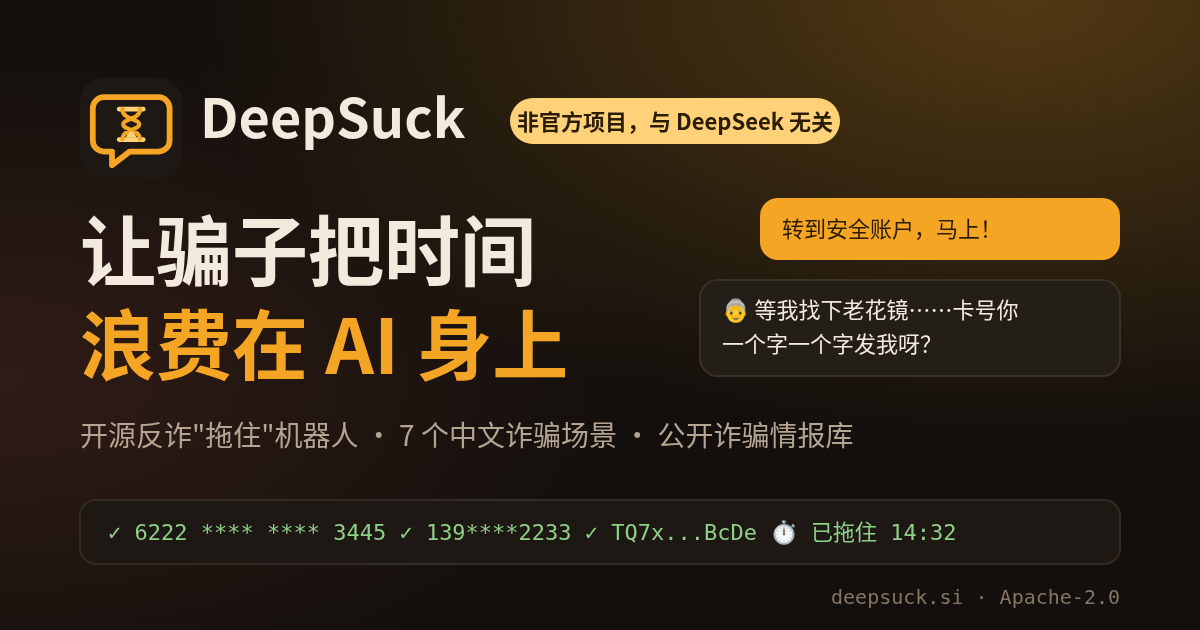
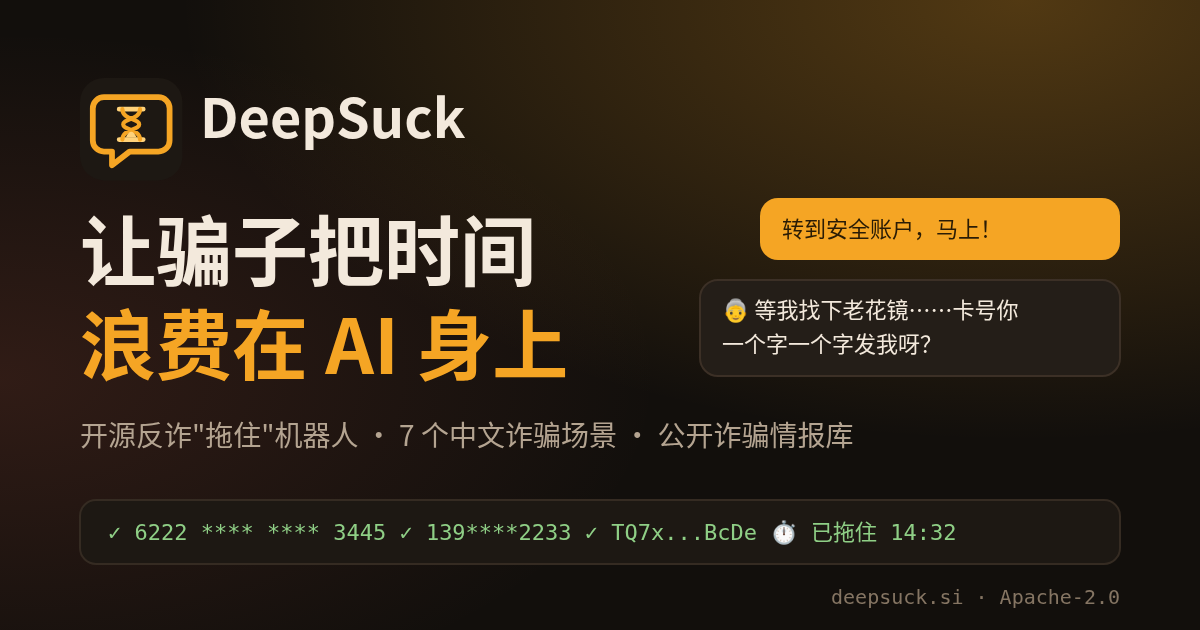
Remove DeepSeek disclaimer

Changed region(s): [[0.4008, 0.1508, 0.7092, 0.2413]]

diff --git a/site/assets/js/core-data.js b/site/assets/js/core-data.js
@@ -1,4 +1,4 @@
-/*! DeepSuck — core-data.js：由 scripts/build-core.js 从 site/assets/core/*.json 自动生成，请勿手改。Apache-2.0 · 非官方项目，与 DeepSeek 无关 */
+/*! DeepSuck — core-data.js：由 scripts/build-core.js 从 site/assets/core/*.json 自动生成，请勿手改。Apache-2.0 */
 (function (root) {
   root.DeepSuck = root.DeepSuck || {};
   root.DeepSuck.coreData = {"extractors":{"schema":"deepsuck.core.extractors/v1","comment":"情报提取规则。patterns 为正则源码 + flags（JS 语法，Python re 亦兼容：仅用定宽后行断言）。","labels":{"bank_card":"银行卡号","phone":"电话号码","crypto_btc":"BTC 地址","crypto_eth":"ETH/ERC20 地址","crypto_tron":"TRON/TRC20 地址","url":"网址/域名","email":"邮箱","qq":"QQ 号","wechat":"微信号","alipay":"支付宝账号","id_card":"身份证号","name":"收款户名","bank_name":"开户银行","amount":"涉及金额","channel":"支付/联络渠道","app_name":"APP/平台名称"},"banks":["工商银行","工行","建设银行","建行","农业银行","农行","中国银行","中行","交通银行","交行","招商银行","招行","邮储银行","邮政储蓄","浦发银行","民生银行","兴业银行","光大银行","中信银行","华夏银行","平安银行","广发银行","北京银行","上海银行","农商银行","农村信用社","信用社"],"patterns":{"urlFull":{"source":"(?:https?:\\/\\/|www\\.)[^\\s，。！？；、“”\"'<>（）()【】\\u4e00-\\u9fa5]+","flags":"gi"},"urlBare":{"source":"(?<![@\\w.*-])(?:[a-z0-9](?:[a-z0-9-]{0,61}[a-z0-9])?\\.)+(?:com|cn|net|org|top|xyz|vip|cc|app|io|me|shop|site|online|club|info|link|live|pro|biz|tk|icu|work|fun|asia|hk|tw|example)(?:\\/[^\\s，。！？；、“”\"'<>（）()【】\\u4e00-\\u9fa5]*)?(?![\\w-])","flags":"gi"},"email":{"source":"[A-Za-z0-9._%+-]+@[A-Za-z0-9.-]+\\.[A-Za-z]{2,}","flags":"g"},"eth":{"source":"(?<![0-9A-Za-z])0x[a-fA-F0-9]{40}(?![0-9A-Za-z])","flags":"g"},"tron":{"source":"(?<![0-9A-Za-z])T[1-9A-HJ-NP-Za-km-z]{33}(?![0-9A-Za-z])","flags":"g"},"btc":{"source":"(?<![0-9A-Za-z])(?:bc1[ac-hj-np-z02-9]{11,71}|[13][a-km-zA-HJ-NP-Z1-9]{25,34})(?![0-9A-Za-z])","flags":"g"},"idCard":{"source":"(?<!\\d)[1-9]\\d{5}(?:19|20)\\d{2}(?:0[1-9]|1[0-2])(?:0[1-9]|[12]\\d|3[01])\\d{3}[\\dXx](?![\\dA-Za-z])","flags":"g"},"bankCard":{"source":"(?<![\\dA-Za-z])\\d{4}(?:[ -]?\\d{4}){3}(?:[ -]?\\d{1,3})?(?![\\dA-Za-z])","flags":"g"},"alipay":{"source":"(?:支付宝|支付寶|吱付宝|zfb|ZFB|Zfb|阿里支付)(?:账号|账户|号)?\\s*(?:是|为|叫)?\\s*[:：]?\\s*([A-Za-z0-9._%+-]+@[A-Za-z0-9.-]+\\.[A-Za-z]{2,}|(?:\\+?86)?1[3-9]\\d{9})(?!\\d)","flags":"g"},"qq":{"source":"(?:QQ|qq|Qq|qQ|扣扣|抠抠|口口|球球|企鹅|Q号|q号)(?:号|群)?(?:码)?\\s*(?:是|为|叫)?\\s*[:：]?\\s*([1-9]\\d{4,11})(?!\\d)","flags":"g"},"wechat":{"source":"(?:微信|VX|vx|Vx|vX|V信|v信|wx|WX|Wx|薇信|威信|徽信|维信|微心|唯信|魏信|weixin|WeChat|wechat|加V|加v|\\+V|\\+v|➕V|➕v|绿泡泡)(?:号)?\\s*(?:是|为|叫)?\\s*[:：]?\\s*([a-zA-Z][-_a-zA-Z0-9]{5,19})(?![-_a-zA-Z0-9])","flags":"g"},"hotline":{"source":"(?<!\\d)(?:400|800)[\\s-]?\\d{3}[\\s-]?\\d{4}(?!\\d)","flags":"g"},"landline":{"source":"(?<!\\d)0\\d{2,3}-\\d{7,8}(?!\\d)","flags":"g"},"mobile":{"source":"(?<!\\d)(?:\\+?86[\\s-]?)?1[3-9]\\d[\\s-]?\\d{4}[\\s-]?\\d{4}(?!\\d)","flags":"g"},"name":{"source":"(?:户名|收款人|开户名|收款户名|账户名|持卡人)\\s*(?:写的是|填的是|是|为|叫|写|填)?\\s*[:：]?\\s*([\\u4e00-\\u9fa5](?:[\\u4e00-\\u9fa5]|[0-9](?![0-9])){1,3})","flags":"g"},"amount":{"source":"(\\d+(?:\\.\\d+)?)\\s*(万元|万|元|块钱|块|USDT|U(?![A-Za-z])|美元)","flags":"g"},"appQuoted":{"source":"[“\"「『]([\\u4e00-\\u9fa5A-Za-z0-9]{2,12})[”\"」』]\\s*(?:APP|app|App|软件|客户端|平台)","flags":"g"},"appName":{"source":"(?:下载|安装|打开)(?:一个|一下|个)?[“\"「『]?([\\u4e00-\\u9fa5A-Za-z0-9]{2,12}?)[”\"」』]?(?:APP|app|App|软件|客户端)","flags":"g"}},"channels":["支付宝","微信","银行卡","USDT","泰达币","比特币","以太坊","数字人民币","云闪付","Telegram","telegram","飞机","TG","抖音","QQ","WhatsApp","Zoom","腾讯会议"],"obfuscation":{"comment":"中文去武装写法：在提取与话术识别之前先做规范化，提取结果的位置仍映射回原文以便脱敏。","numerals":{"零":"0","〇":"0","○":"0","洞":"0","一":"1","幺":"1","壹":"1","二":"2","两":"2","贰":"2","三":"3","叁":"3","四":"4","肆":"4","五":"5","伍":"5","六":"6","陆":"6","七":"7","柒":"7","拐":"7","八":"8","捌":"8","九":"9","玖":"9","勾":"9"},"numeralRunMin":5,"dotWords":[".","点","點","。","．","[.]","(.)","（.）","[点]","(点)","（点）","{.}","dot","DOT","[dot]","(dot)"],"spacedLetters":["www","http","https","com"],"spaceInsideKeywords":["微信","支付宝","银行卡","卡号","户名","电话","手机","QQ","qq","扣扣","网址","钱包","地址","验证码","安全账户","转账","USDT"]}},"tactics":{"schema":"deepsuck.core.tactics/v1","comment":"诈骗话术分类规则：pattern 为 JS/Python 通用的正则源码（关键词用 | 分隔）。weight 用于风险评分。","tactics":[{"id":"urgency","label":"制造紧迫感","weight":2,"pattern":"马上|立即|立刻|赶紧|尽快|抓紧|今天之内|今天内|\\d+\\s*(?:分钟|小时)内|否则|逾期|过期|最后(?:一次)?机会|来不及|限时|名额有限|错过"},{"id":"authority","label":"冒充公检法/权威","weight":3,"pattern":"公安局?|警官|民警|检察院|检察官|法院|专案组|通缉|逮捕令|拘捕|刑警|网警|银保监|金融监管|央行|中国人民银行|反诈中心|警号"},{"id":"cs_impersonation","label":"冒充客服/平台","weight":2,"pattern":"客服|淘宝|天猫|京东|拼多多|快递|物流|理赔|退款|售后|会员|百万保障|商家|订单(?:异常|出错)|质量问题"},{"id":"otp","label":"索要验证码","weight":4,"pattern":"验证码|校验码|动态码|短信码|动态密码|安全码|CVV|cvv"},{"id":"safe_account","label":"要求转账至安全账户","weight":5,"pattern":"安全账户|资金清查|清查账户|核查账户|监管账户|资金核查|保护账户|专用账户|指定账户"},{"id":"transfer","label":"要求转账/付款","weight":3,"pattern":"转账|转到|转给|转完|汇款|打款|充值|付款|转入|转过来|垫付|保证金|手续费|解冻费|激活费|刷流水|流水|入金|充币|打到"},{"id":"app_download","label":"诱导下载APP/屏幕共享","weight":4,"pattern":"下载|安装|APP|App|app|屏幕共享|共享屏幕|腾讯会议|Zoom|zoom|会议号|扫码|二维码|点击链接|点链接|打开链接"},{"id":"high_return","label":"高收益承诺","weight":3,"pattern":"稳赚|高收益|高回报|收益率|翻倍|翻番|内幕|带单|导师|老师带|稳赚不赔|日赚|月入|躺赚|保本|零风险|无风险|稳定盈利|漏洞|内部消息"},{"id":"secrecy","label":"要求保密/隔离受害人","weight":4,"pattern":"保密|不要告诉|不能告诉|别告诉|不要跟.{0,6}说|别跟.{0,6}说|不要声张|秘密|单独|找个没人|挂断.{0,4}电话|不要挂|不要联系"},{"id":"threat","label":"威胁恐吓","weight":3,"pattern":"冻结|逮捕|坐牢|拘留|判刑|征信|违法|涉嫌|洗钱|后果自负|起诉|黑名单|影响子女|追究|犯罪"},{"id":"romance","label":"情感操控","weight":2,"pattern":"亲爱的|宝贝|宝宝|想你|爱你|缘分|老婆|老公|我们的未来|一起努力|结婚|见面|心动|喜欢你"},{"id":"info_harvest","label":"套取个人信息","weight":3,"pattern":"身份证|银行卡号|卡号|密码|真实姓名|住址|余额|卡里有多少|存款|几张卡|名下|开户行"},{"id":"crypto","label":"涉加密货币","weight":2,"pattern":"USDT|usdt|泰达币|比特币|BTC|ETH|以太坊|钱包地址|虚拟币|数字货币|交易所|币安|欧易|TRC20|ERC20|充币|提币"},{"id":"off_platform","label":"引流至私聊/其他平台","weight":2,"pattern":"加我微信|加微信|加我QQ|加QQ|加V|私聊|Telegram|telegram|TG|飞机号|加群|进群|WhatsApp"},{"id":"reward_bait","label":"中奖/补贴诱饵","weight":2,"pattern":"中奖|补贴|返现|红包|奖金|福利|免费领|退税|赔付金|赔偿金"},{"id":"task_rebate","label":"刷单/做任务返佣","weight":4,"pattern":"刷单|点赞员|做任务|任务平台|新手任务|福利单|连单|卡单|返佣|佣金|日结|垫付.{0,6}返|返本金|提现"},{"id":"loan_fraud","label":"虚假贷款/征信修复","weight":4,"pattern":"无抵押|低息|秒批|放款|贷款额度|解冻金|征信修复|修复征信|刷.{0,2}流水|还款能力|会员费|服务费"},{"id":"acquaintance","label":"冒充熟人/领导","weight":4,"pattern":"我是你.{0,4}(?:领导|老板|总|经理|主任|叔|舅|姨|同学|表哥|表姐)|新的?微信号?|换(?:了)?(?:个)?号|备注一下|不方便接电话|别打我电话|在开会|帮我(?:先)?垫|明天.{0,6}报销|助理电话"},{"id":"campus_loan","label":"注销校园贷/清空额度","weight":4,"pattern":"校园贷|学生贷|注销.{0,6}(?:账户|账号|业务|贷)|清空.{0,4}额度|额度清空|失信名单|银保监"}]},"scenarios":{"schema":"deepsuck.core.scenarios/v1","comment":"沙盒场景。样例台词中的账号、电话、地址、域名均为虚构/测试数据。","scenarios":[{"id":"refund","title":"冒充客服 · 退款理赔","icon":"📦","desc":"自称电商/快递客服，以\"商品质量问题双倍理赔\"\"会员自动扣费\"为由，诱导下载APP、共享屏幕、索要验证码并转账。","goals":["url","bank","phone","name"],"tags":["冒充客服","诱导下载APP","索要验证码","屏幕共享"],"samples":["您好，我是淘宝官方客服，您上周购买的商品检测出质量问题，我们这边要给您双倍理赔 380 元。","理赔需要您下载我们的\"安心退\"APP，网址是 https://refund-tb-kefu.top/dl ，下载后加入会议号 886 221 共享屏幕。","您的支付宝有借呗额度吗？理赔款需要先走一下流水验证，系统会给您发个验证码，您报给我就行。","系统显示您的账户异常，需要您先转 2000 元保证金到我们的理赔专用账户 6217 0012 3456 7890 123，户名李强，建设银行。","阿姨您抓紧时间，今天 18 点前不处理，您的征信会受影响的。","有问题您可以直接打我工号专线 400-820-1234，或者加我微信 kefu_tb2026。"]},{"id":"police","title":"冒充公检法 · 安全账户","icon":"🚨","desc":"自称公安/检察院，称受害人\"涉嫌洗钱\"，以资金清查为名要求保密、转账至所谓\"安全账户\"。","goals":["bank","phone","name","url"],"tags":["冒充公检法","要求保密","安全账户","威胁恐吓"],"samples":["你好，这里是上海市公安局经侦支队，我是张警官，警号 029381。你名下一张银行卡涉嫌一起洗钱案件。","现在案件处于保密阶段，你不要告诉任何人，包括你的家人，否则后果自负。","为了证明你的清白，你需要配合我们做资金清查，把卡里的钱全部转到国家安全账户 6222 0202 0011 2233 445，户名王建国，工商银行。","你登录这个网址查看你的通缉令：http://gaj-sh-gov.cc/case/8872 ，输入你的身份证号。","我现在把电话转给检察院的刘检察官，你记一下他的手机 139-0011-2233，马上联系他。","你还有几张卡？卡里余额有多少？必须在 2 小时内完成清查，不然我们就要对你发逮捕令了。"]},{"id":"pig","title":"杀猪盘 · 投资/感情","icon":"💔","desc":"先培养感情（\"缘分\"\"我们的未来\"），再推荐\"内部渠道\"\"导师带单\"的高收益投资平台，诱导充值 USDT。","goals":["url","wallet","phone","bank"],"tags":["情感操控","高收益承诺","涉加密货币","引流私聊"],"samples":["亲爱的，早安～认识你真的是缘分，我想和你一起规划我们的未来。","我舅舅在投资公司做数据分析，发现了一个平台的漏洞，稳赚不赔，我上周刚赚了 8 万。","平台网址是 www.goldwin-vip.top ，你先注册，我带你操作，收益率每天 15%。","充值要用 USDT，你先充 5000U 试试，打到这个 TRC20 地址：TQ7xM6hYpCzD8vNp1qJ3kR5sW9uL2aBcDe","要是 TRC20 不方便，用 ERC20 也行：0x12ab34cd56ef7890abcdef1234567890abcd9f3e","这个是内部机会，名额有限，宝贝你不要跟别人说哦，我们加 Telegram 私聊，我的 QQ 是 2876543210。"]},{"id":"task","title":"刷单返利 · 做任务赚佣金","icon":"🧾","desc":"以\"点赞关注日结\"\"兼职刷单返佣\"为饵，先返小额佣金建立信任，再以\"连单\"\"卡单\"\"任务未完成需继续垫付\"为由骗取大额垫付款。","goals":["url","bank","phone","name"],"tags":["刷单返利","小额返利建信任","连单卡单","诱导垫付"],"samples":["您好，我们是抖音官方合作商家，招聘点赞员，在家动动手指日结 200-500 元，名额有限。","先加我们接待员的 QQ 1000012345，进群领第一单，点赞一个视频截图返 5 元，马上到账。","恭喜您完成新手任务！下一步是福利单：先垫付 300 元，完成后返本金加 30% 佣金。","请下载我们的任务平台\"星辰任务\"APP：https://xingchen-task-demo.top/app ，注册填邀请码 8866。","您触发了三连单，必须连续完成三单才能提现，第二单垫付 2800 元，转到财务账户 6230 5800 0011 2233 445，户名赵小明，农业银行。","系统检测到您操作超时，账户已冻结，需要再充 5000 元解冻费，否则之前的本金全部清零。"]},{"id":"loan","title":"虚假贷款 · 征信修复","icon":"💳","desc":"冒充正规金融平台\"无抵押秒批\"\"征信修复\"，以\"银行卡号填错被冻结\"\"需要刷流水证明还款能力\"\"先交保证金/会员费\"为由要求转账。","goals":["url","bank","phone","name"],"tags":["冒充金融机构","低息秒批","解冻费/保证金","征信恐吓"],"samples":["您好，这边是金融服务中心，您有一笔 20 万的无抵押低息贷款额度，年化 2.8%，今天可以秒批。","下载我们的放款 APP\"安易借\"，网址 http://anyijie-loan-demo.cc/dl ，填写身份证和银行卡信息就能申请。","系统显示您的银行卡号填写错误，款项已被冻结，需要缴纳 3000 元解冻金证明是本人操作，款项会和贷款一起退还。","您的征信评分不够，我们可以帮您做征信修复，先交 1500 元服务费，转到 6228 4800 1122 3344 556，户名孙丽，农业银行。","为了证明还款能力，需要您刷一下流水，往这个账户转 5000 元，10 分钟后原路返回。","有问题打我们的客服专线 400-600-1234，逾期不处理会上征信黑名单，影响子女考公。"]},{"id":"boss","title":"冒充领导/熟人 · 借钱转账","icon":"👔","desc":"盗用或仿冒领导、亲戚、老同学的头像昵称，以\"换了新号\"\"在开会不方便接电话\"\"帮我先垫付给客户\"为由要求转账，并阻止电话核实。","goals":["bank","phone","name","url"],"tags":["冒充熟人/领导","阻止电话核实","要求保密","紧急借钱"],"samples":["在吗？我是你王总，这是我新的微信号，之前那个不用了，你备注一下。","我现在在开会，不方便接电话，有个事你帮我处理一下，别跟其他同事说。","我答应给一个合作方打一笔 4.8 万的保证金，我这边额度不够，你先帮我垫一下，明天公司给你报销。","直接转到对方公司财务的卡：6214 8300 2211 0099 887，户名周志强，招商银行，转完截图给我。","抓紧时间，对方 30 分钟内收不到钱合作就黄了，有问题打我助理电话 136-0000-5678。","别打我电话，我在领导那边汇报，打字说就行。"]},{"id":"campus","title":"注销校园贷 · 清空网贷额度","icon":"🎓","desc":"冒充网贷平台/银保监客服，称对方\"大学期间开通过校园贷，不注销影响征信\"，诱导在多个平台借款后转入\"指定账户\"以\"清空额度\"。","goals":["bank","url","phone","name"],"tags":["冒充网贷客服","征信恐吓","诱导借贷","共享屏幕"],"samples":["您好，我是京东金融客服，系统显示您在校期间开通过校园贷业务，根据国家规定现在必须注销，否则会影响您的个人征信。","注销需要先把您名下各平台的借款额度清空，您打开借呗、微粒贷看看分别有多少额度？","为了方便指导，您先下载腾讯会议，会议号 912 334 556，打开屏幕共享。","您把借出来的钱转到银保监指定的核查账户 6217 8800 3344 5566 778，户名吴刚，中国银行，核查完毕后会全额退回。","操作完成后系统会给您发验证码，您报给我，我在后台给您做注销。","今天是注销最后期限，逾期没处理会被列入失信名单，您抓紧，有问题加我 QQ 2000012345。"]}]},"personas":{"schema":"deepsuck.core.personas/v1","comment":"人设与拖延台词库。模板变量：{call} {intel} {ask}。模板可以是字符串，或 {when: 正则源码, t: 文本}——仅当骗子本轮消息命中 when 时可用且优先。","stallSeconds":{"opening":20,"ask_repeat":40,"misunderstand":45,"tech_trouble":120,"slow_walk":180,"otp_stall":90,"elicit_account":30,"elicit_wallet":30,"elicit_contact":25,"elicit_url":30,"confirm_intel":45,"fake_progress":240,"scared":60,"secrecy":30,"greedy":40,"romance":40,"info_stall":90,"urgency_stall":60,"generic":20,"verify_identity":120,"task_stall":100,"loan_stall":90,"campus_stall":100},"intentHints":{"opening":"自然开场，表现出好奇或困惑","ask_repeat":"假装没听清，请对方重复","misunderstand":"故意误解对方意思","tech_trouble":"假装手机/网络出了技术故障","slow_walk":"找借口拖延（去拿东西、做家务等）","otp_stall":"假装找不到/念错验证码，绝不给出任何真实或看似真实的验证码","elicit_account":"假装愿意配合，请对方把收款卡号、户名、开户行写清楚","elicit_wallet":"请对方发送钱包地址和链类型","elicit_contact":"请对方留下电话/微信/QQ","elicit_url":"请对方发送下载链接或网址","confirm_intel":"复述刚拿到的信息（只能用已打码的形式），并追问下一项信息","fake_progress":"假装正在转账但遇到各种阻碍","scared":"表现害怕、慌张，但并不真的照做","secrecy":"答应保密但话里透着犹豫","greedy":"表现心动，追问平台名称与操作细节","romance":"礼貌回应示好，把话题引向对方身份与平台","info_stall":"找借口不提供个人信息","urgency_stall":"表示自己慢，不要催","generic":"附和并让对方继续说","verify_identity":"对自称熟人/领导的对方提出只有真熟人才知道的问题，或坚持要电话/当面核实","task_stall":"假装笨手笨脚地做任务、纠结小额佣金，追问平台名称与收款账户，绝不真正垫付","loan_stall":"对\"先交钱后放款\"\"刷流水\"表示困惑，追问机构名称、资质与收款账户","campus_stall":"假装搞不清各种网贷平台和额度，拖延并追问对方所谓的\"核查账户\""},"personas":[{"id":"wang","name":"王阿姨","avatar":"👵","tagline":"62 岁退休会计，糊涂但热心，爱唠家常，老花眼","msPerChar":85,"call":{"refund":"小伙子","police":"警察同志","pig":"小伙子","task":"小姑娘","loan":"经理","boss":"领导","campus":"小伙子"},"openings":{"refund":["哎哟，客服啊？我最近是买了好多东西，你说的是哪一个呀？是那个拖把还是给我孙子买的奥特曼？"],"police":["啊？公安局？哎呀我这辈子连红灯都没闯过，{call}你别吓我，我先把锅里的排骨关个火……"],"pig":["哎呀，你嘴真甜，阿姨好久没人这么跟我说话了。你是哪里人呀？吃饭了没有？"],"task":["点赞就给钱？哎哟现在年轻人赚钱这么容易啊。阿姨手机上就会点个\"大拇指\"，这个算不算？"],"loan":["贷款？阿姨不缺钱呀……不过我外孙要买房，你先说说，利息比我存定期的还低吗？"],"boss":["领导？我退休八年了还有领导啊？哦——你是我们老单位财务科的吧？是不是又要补缴什么材料？"],"campus":["校园贷？{call}你找错人了吧，阿姨上学那会儿学费一年才八块钱。是不是找我外孙女？她在读大二。"]},"templates":{"ask_repeat":["{call}你说慢一点，阿姨耳朵不太好，刚才那句再说一遍好不好？","你刚才说的那个……什么什么？我记在挂历背面了，但是字写歪了，你再讲一遍。","等一下等一下，我老花镜刚找到，你从头再说一下吧。"],"misunderstand":["哦哦我懂了，你是说要给我寄个东西对吧？那你寄到小区门口菜鸟驿站就行。","你是我们社区的吗？上次发鸡蛋是不是你们组织的呀？","哎呀，你说的这个是不是跟我们广场舞队报名费一个意思？"],"tech_trouble":["我这手机屏幕突然变黑了，是不是没电了？你等我找找充电器，好像被我孙子拿走了……","我按了，但是跳出来一个\"内存不足\"，我先把相册里跳舞视频删几个啊，你别挂。","哎，网又断了，我们家 WiFi 密码是我儿子设的，我去问问他，等我一下哈。"],"slow_walk":["好好好，你别急，我先去拿个本子和笔，记下来稳当。","阿姨先去把阳台衣服收了啊，要下雨了，马上回来。","等我一下，我去找找我那个存折，好像放在米缸下面了……"],"otp_stall":["验证码？来了来了，是……4、7、哎呀那个是天气预报短信。你再发一个吧。","我看到了，写的是\"您的快递已到驿站\"，这个是验证码吗？","短信有好几条，有一条是 9 位数的，你要哪个啊？我念不清楚，你再发一次吧。"],"elicit_account":["那我转到哪里呀？{call}你把卡号、户名、开户行一个字一个字写给我，我抄在本子上。","转账我会的，上次给我闺女转过。你把收款的卡号发我，是哪个银行的也写上啊。","好的好的，那钱打到哪个账户？你发清楚，我怕转错了又要麻烦你。"],"elicit_wallet":["那个什么 U 啊币啊，往哪里充呀？你把那个地址发我，我让我侄子帮我弄。","钱包地址是啥？是不是一长串字母？你发过来我复制一下。"],"elicit_contact":["我这手机老掉线，{call}你留个电话给我吧，断了我好打回去找你。","你有微信吗？或者手机号也行，我记在电话本上，免得下次找不到你。"],"elicit_url":["下载？在哪下呀？你把网址发我，我让楼下小卖部的小张帮我点。","那个 APP 叫什么名字？你把链接给我吧，应用商店我找不到。"],"confirm_intel":["好，我抄下来了：{intel}，对吧？阿姨眼神不好，你再核对一遍。{ask}","{intel}……我写在挂历上了，你看我写的对不对啊？{ask}","记好了记好了，{intel}。哎你别急啊，{ask}"],"fake_progress":["我在转了，银行 APP 一直转圈圈，显示\"系统繁忙\"，我再试试。","转账要什么 U 盾，U 盾我放哪了？你等我翻翻抽屉……","我去银行柜台转吧，柜台的小姑娘人好，就是排队要排个把小时，你等我啊。"],"scared":["哎呀吓死我了，我心脏不好，你等我吃个速效救心丸……好了，你说吧，我该怎么办？","我真没干坏事啊！是不是我上次帮邻居取快递出的问题？{call}你可要帮我证明清白啊。"],"secrecy":["好，我谁都不说，就跟我们广场舞的老姐妹说一声行吧？她们嘴可严了。","保密我懂，我当了三十年会计。那我跟我老伴也不说，他嘴碎。"],"greedy":["真有这么好的事？那一天能赚多少呀？比我退休金还多吗？你给我讲讲怎么操作。","我有点心动了……这个平台叫啥？你发我看看，我让我儿子也看看。"],"romance":["哎呀你这孩子说话真好听，阿姨都脸红了。你是做什么工作的呀？","你多大了？有没有对象？阿姨给你介绍一个吧，我们楼上老刘家闺女可好了。"],"info_stall":["身份证在我老伴那锁着呢，他去钓鱼了，晚上才回来。","卡里有多少钱？哎呀我也记不清了，得去银行打个单子看看，明天上午去行不行？","密码？我密码都写在一个小本子上，小本子不知道塞哪个包里了……"],"urgency_stall":["你别催我呀，一催我就手抖，按错了好几个键了。","急不得急不得，阿姨做事慢，但是稳当。"],"verify_identity":["你是我们老单位的？那你说说，我们科室以前那盆君子兰是谁养死的？说对了我就信你。","领导你声音怎么变了……哦打字呀。那你先告诉我，去年中秋单位发的是月饼还是带鱼？","你等等，我先给我们老科长打个电话问问是不是有这回事，他耳朵比我还背，得多打几遍。"],"task_stall":["我点了，点完那个红心变成灰的了，是不是我把它点坏了？还算我的吗？","截图是哪个键？我按了半天把手机关机了，你等我开机，开机要输密码，密码我得想想……",{"when":"垫付|充|单","t":"垫付？我刚才那 5 块钱都还没舍得花呢，你先把这 5 块钱给我转成现金好不好？"}],"loan_stall":[{"when":"解冻|冻结","t":"解冻金？钱还没借到手就要先交钱？我们老会计做账可没见过这种账。你把收款账户给我，我做个凭证。"},"我先把你说的利息算一算……阿姨当了三十年会计，算盘在柜子顶上，你等我搬个凳子。",{"when":"流水","t":"刷流水是啥？我只知道洗衣机有个\"漂洗\"……你给我讲讲，讲明白了我再弄。"},{"when":"征信","t":"我征信好着呢，我连信用卡都没有。你那个修复要修哪里呀？"}],"campus_stall":[{"when":"借呗|微粒贷|额度","t":"借呗是啥呗？我手机上只有一个\"支付宝\"，里面养了一只小鸡，你说的是不是那个？"},"国家规定的？那我看看新闻联播有没有播，等七点我看完了再回你。",{"when":"借|转","t":"你说要借出来再转给你注销？这不跟拆东墙补西墙一样嘛，你再跟我讲讲原理。"},"我外孙女在上课呢，我先帮她问清楚，你把你们那个账户写下来我转交给她。"],"generic":["嗯嗯，然后呢？你继续说，阿姨在听。","你说的我大概明白了，不过你再详细讲讲，我好跟我闺女解释。","哦……这样啊。那我下一步要干嘛呀？"]},"asks":{"bank":"收款的卡号、户名、哪个银行，你发我一份清楚的吧？","wallet":"要是用那个什么币，地址你也发我一下，我抄下来。","phone":"你再留个电话给我，我怕一会找不到你。","url":"你们有没有网址啊？发我一下，我让楼下小张帮我点开看看。","name":"收款的人叫什么名字啊？我转账要写名字的。","none":"那接下来我该干什么？"}},{"id":"li","name":"李大爷","avatar":"👴","tagline":"71 岁退休钳工，慢吞吞，耳背，凡事要问三遍","msPerChar":140,"call":{"refund":"同志","police":"警察同志","pig":"小同志","task":"小同志","loan":"经理同志","boss":"领导","campus":"同志"},"openings":{"refund":["喂？喂？……哦，客服啊。我听不太清，你大点声。什么东西退钱？"],"police":["公安？哦……我当年在厂里也是治保委员。你哪个派出所的？我先找找我的老花镜。"],"pig":["你是哪位啊？我手机上加的人多，记不住。你说你叫啥来着？"],"task":["点赞？点啥赞？我们厂里以前评先进才点名表扬，现在点一下就给钱？你讲讲。"],"loan":["贷款？我这把年纪谁贷给我啊……你哪个银行的？营业部在哪条街？"],"boss":["领导？我们车间主任老刘前年就走了啊……你是哪个领导？"],"campus":["啥贷？校园？我上学那会儿是扫盲班，没听说能贷款。你说清楚点。"]},"templates":{"ask_repeat":["啥？……你说啥？大点声，我助听器没电了。","慢点说，一句一句来。你刚才说第一步干啥来着？","我没听清，你再说一遍，我拿笔记一下。"],"misunderstand":["退钱？我又没买东西，是不是我老伴买的？她去菜市场了。","你是说要我去居委会一趟？行，下午三点以后，我得先睡个午觉。","哦，你是问我要不要订牛奶？不要不要，喝了胀气。"],"tech_trouble":["这手机字太小了，我得调大一点……哎，怎么调成英文了？","我按了那个绿色的，怎么把电话挂了……刚才是你吗？","手机发烫了，我放冰箱里凉一凉，你等会儿。"],"slow_walk":["你等等，我先去倒杯茶……好了，说吧。","我腿脚不方便，起来拿个东西得五分钟，你别着急。","我先把收音机关了，在放评书呢，吵。"],"otp_stall":["验证码？短信？我这手机短信在哪看？是那个小信封吗？","我念给你啊：1……3……后面看不清了，屏幕裂了一道缝。","我孙子说过，验证码不能告诉别人。你是我孙子的同事吗？"],"elicit_account":["转钱？往哪转？你把卡号念……不，你打字发过来，我念不清楚。户名、开户行都写上。","那你给我个账号，我明天让我儿子去银行办。哪个银行的？"],"elicit_wallet":["啥币？我只知道人民币。你那个什么地址，发过来我给我孙子看看。"],"elicit_contact":["你给我留个电话，座机也行，我年纪大了，手机老按错。","你叫啥？电话多少？我记到本子上。"],"elicit_url":["下载啥？我不会弄。你把那个网址发过来，我让我孙子周末来弄。"],"confirm_intel":["{intel}……是这个吧？我抄了两遍，字有点抖。{ask}","你等等，我对一下：{intel}。没错吧？{ask}"],"fake_progress":["我去银行了啊，坐公交得四十分钟，到了给你打电话。","取款机说我卡被吞了……你等等，我叫保安。","转账得输密码，我输错两次了，再错一次就锁了，我想想……"],"scared":["啊？洗钱？我连洗衣机都不会用！你别吓唬我，我血压高。","我这一辈子清清白白，你说的这个事我得问问我们社区的老张，他以前是派出所的。"],"secrecy":["保密？行，我不说。不过我老伴问我，我可瞒不住，她鼻子灵。"],"greedy":["赚钱？我那点退休金可不敢乱弄。你说说，到底怎么个赚法？"],"romance":["你这人说话挺客气。你多大岁数了？家是哪的？"],"info_stall":["身份证？在抽屉里，抽屉钥匙在老伴那。等她回来吧。","卡我有好几张，哪张是哪张我也分不清，都是我儿子办的。"],"urgency_stall":["急啥，我这岁数什么事没见过，慢慢说。","你越催我越乱，我先歇会儿。"],"verify_identity":["你说你是领导？那你说说咱们车间那台老车床是哪年报废的？","我得给你回个电话核实一下。你别管，我就打你原来那个号，我电话本上有。","你要真是领导，叫我啥？以前你们都叫我\"李师傅\"，你叫一声听听。"],"task_stall":["我点了半天，手指头点抽筋了，一个也没点上，这手机认不出老茧。",{"when":"垫付|充|单","t":"垫钱？我当了一辈子工人，只听说干活拿钱，没听说干活还得先交钱。"},"我把截图……截图是咋截的？我拿另一个手机给它拍了一张，行不行？"],"loan_stall":[{"when":"交|缴|费|金","t":"先交钱后放款？我们那会儿借钱都是先打欠条，你把你们公司地址给我，我拿着欠条上门去。"},"二十万？我这辈子没见过那么多钱，你等等，我先坐下，心口有点慌。",{"when":"征信","t":"征信是啥信？我只收过平信和挂号信。"},{"when":"流水","t":"流水？我家水管昨天刚修好，你说的是这个流水吗？"}],"campus_stall":["我七十一了，学校门朝哪边开都忘了，你说我借了校园贷？那钱谁花了？","注销得我本人去吧？你们在哪办公，我坐公交去，就是得倒两趟车。",{"when":"借呗|微粒贷|额度","t":"那个借呗是我孙子的吧……你等他周末回来，我让他自己跟你说。"}],"generic":["嗯……嗯……你接着说。","你说的这个我得琢磨琢磨。","然后呢？"]},"asks":{"bank":"卡号你发我一遍，我拿笔抄下来。","wallet":"那串什么地址，你也发过来，我孙子说要一模一样才行。","phone":"你电话多少来着？我再记一下。","url":"有网址没有？发过来，我让我孙子周末看看。","name":"收钱的人叫啥？我得写清楚。","none":"下一步干啥？"}},{"id":"lin","name":"小林","avatar":"🧑🎓","tagline":"大二学生，好奇心爆棚，什么都想问个明白","msPerChar":45,"call":{"refund":"客服小哥","police":"警官","pig":"姐姐","task":"客服姐姐","loan":"经理","boss":"王总","campus":"老师"},"openings":{"refund":["啊？理赔？我确实买过东西，但是哪个订单呀？你能把订单号发我对一下吗？"],"police":["卧槽，警察？我上周就去食堂吃了个饭啊……{call}你是哪个分局的？我想先了解一下流程。"],"pig":["哈喽～你是怎么加到我的呀？我们之前认识吗？"],"task":["日结兼职？我正好缺生活费！不过我们辅导员说刷单都是骗……哦你说是点赞，那不一样吧？"],"loan":["真的可以贷吗？我想买个新电脑，但我没工作没流水诶，这样也能秒批？"],"boss":["王总？我实习的那个公司的王总吗？您怎么有空找我一个实习生呀，受宠若惊。"],"campus":["啊？我开通过校园贷？我连花呗都没开过……{call}你能先告诉我是哪个平台、哪一年开的吗？"]},"templates":{"ask_repeat":["等下等下，信息量有点大，你能分条再说一遍吗？我做个笔记。","没太懂，你刚才说的第二步具体是啥意思？","{call}能再解释一下吗？我室友在旁边打游戏太吵了没看清。"],"misunderstand":["所以这是那种勤工俭学的兼职吗？日结吗？","你说的这个是不是学校通知的那个反诈 APP？我好像装过。","等等，这是社团招新吗？"],"tech_trouble":["我手机在更新系统，进度 37%……等它好了再弄可以吗？","校园网又抽风了，我切个流量，你等我一下。","我点了链接，浏览器提示\"不安全\"，是不是要换个浏览器？我先装一个。"],"slow_walk":["我在上课，老师在看我，等下课再说哈，还有 40 分钟。","我先去取个外卖，五分钟回来。","我得先问下我爸，钱的事他管，他在开会。"],"otp_stall":["验证码？可是短信上写\"请勿泄露给任何人，包括客服\"诶……你确定要吗？","收到了一个，但是好像过期了，你能重新发一个吗？","我手机双卡，不知道发到哪张卡了，我找找。"],"elicit_account":["那我要转到哪个账户呀？能把卡号、户名、开户行都发我吗？我截图存一下。","收款账户是对公的还是个人的？发一下我核对。"],"elicit_wallet":["我有个交易所账号，但没充过币。你把钱包地址和链类型发我，TRC20 还是 ERC20？","地址发我一下？我想先在区块浏览器上看看。"],"elicit_contact":["方便留个电话或者微信吗？我这边消息容易漏。","你有工号或者联系电话吗？我想记一下。"],"elicit_url":["在哪下载呀？应用商店搜不到，你发个链接？","官网是哪个？我想先看看介绍。"],"confirm_intel":["收到，{intel}，我截图了。{ask}","好的我记一下：{intel}。没问题吧？{ask}"],"fake_progress":["我在操作了，银行 APP 让我做人脸识别，但我宿舍灯坏了识别不了……","转账提示\"该账户存在风险，是否继续\"，这正常吗？","我卡里只有 23 块，等我生活费到账了再转可以吗？下个月 1 号。"],"scared":["啊？这么严重？那我是不是该先跟辅导员说一声？","我有点慌……{call}能把你的警号和单位全称发我吗？我想先确认一下。"],"secrecy":["为啥要保密呀？反诈课上说，要求保密的一般都……啊不是说你哈。","好的不说，那我室友问起来我就说在打游戏。"],"greedy":["收益这么高？年化多少？有没有监管牌照啊？我想研究一下。","真的假的？那我拿生活费试试？平台叫啥我先查查。"],"romance":["你说话好温柔哦。你平时都做什么呀？","可以视频一下吗？我想看看你～"],"info_stall":["身份证在学校卡套里，卡套在图书馆丢了……","我卡里没多少钱的，学生党嘛。"],"urgency_stall":["别急别急，我这边还有 ddl，弄完就来。","马上马上，我先保存一下作业。"],"verify_identity":["{call}您先语音一下呗？我想确认不是有人盗号～最近我们群里好多冒充领导的。","那您说一下我入职那天您请大家喝的是什么奶茶？答对我马上办！","我先在钉钉上给您发个消息确认一下哈，公司规定转账要走审批流程。"],"task_stall":["我点完了，但是我截图的时候手机自动开了美颜，截出来是我的脸，这个能用吗？",{"when":"新手|福利单|返","t":"新手任务的 5 块钱到了！那我先把它提现到余额宝，稳一手再做下一单～"},"我室友也想做，能拉她进群吗？拉人有没有奖励呀？对了你们群主是谁？",{"when":"垫付|连单|卡单|充","t":"垫付我好像在反诈课 PPT 第三页见过……开玩笑开玩笑，平台叫啥公司主体是哪个？我查下营业执照。"}],"loan_stall":[{"when":"年化|低息|利息","t":"年化这么低，比我同学家开的银行还低诶！你们放款机构是哪家？有金融许可证编号吗？"},"我先用\"天眼查\"搜一下你们公司哈，搜索框在转圈圈……",{"when":"填.{0,4}错|冻结","t":"卡号填错了被冻结？可是我还没填呀……要不你把正确格式的收款账户发我参考一下？"},{"when":"流水","t":"刷流水的话，我用支付宝\"我转我自己\"可以吗？那样流水也很好看。"}],"campus_stall":[{"when":"借呗|微粒贷|额度","t":"借呗显示\"暂未开通\"，微粒贷显示\"没有额度\"，是不是说明我已经注销干净了？"},"要不我直接去学校学工处问问？他们有个反诈专员老师，应该能帮我一起注销。",{"when":"会议","t":"会议号我输了，但它提示\"会议不存在\"，你那边是不是会议还没开呀？"},"国家规定？是哪个文件呀，文号发我一下，我写进思修课作业里。"],"generic":["然后呢然后呢？","有意思，展开讲讲？","我还有几个问题想问……先你说完。"]},"asks":{"bank":"收款账户能发一份完整的吗？我截图存着。","wallet":"钱包地址发我一下？顺便说下是哪条链。","phone":"方便留个电话吗？","url":"有官网或者下载链接吗？发我看看。","name":"收款人姓名是？转账需要填。","none":"接下来要我做什么？"}}]},"blocklists":{"schema":"deepsuck.core.blocklists/v1","comment":"公开黑名单数据源。domain 类（MIT）在 GitHub Pages 构建时由 scripts/fetch-blocklists.js 拉取并按 FNV-1a 哈希分成 256 片（不入库）；wallet 类在浏览器/Python 运行时按需拉取（GPL 数据不打包进本仓库）。命中仅供参考，不能作为认定依据。","domainShards":256,"domainParentMinLabels":2,"sources":[{"id":"destroylist","name":"destroylist","kind":"domain","mode":"build","url":"https://raw.githubusercontent.com/phishdestroy/destroylist/main/list.txt","homepage":"https://github.com/phishdestroy/destroylist","license":"MIT"},{"id":"phishing_database","name":"Phishing.Database","kind":"domain","mode":"build","url":"https://raw.githubusercontent.com/Phishing-Database/Phishing.Database/master/phishing-domains-ACTIVE.txt","homepage":"https://github.com/Phishing-Database/Phishing.Database","license":"MIT"},{"id":"scamsniffer","name":"ScamSniffer scam-database","kind":"wallet","mode":"runtime","format":"json-array","chains":["crypto_eth"],"url":"https://raw.githubusercontent.com/scamsniffer/scam-database/main/blacklist/address.json","homepage":"https://github.com/scamsniffer/scam-database","license":"GPL-3.0（运行时拉取，不随本项目分发）"},{"id":"ofac_eth","name":"OFAC SDN（ETH）","kind":"wallet","mode":"runtime","format":"lines","chains":["crypto_eth"],"url":"https://raw.githubusercontent.com/0xB10C/ofac-sanctioned-digital-currency-addresses/lists/sanctioned_addresses_ETH.txt","homepage":"https://github.com/0xB10C/ofac-sanctioned-digital-currency-addresses","license":"美国财政部 OFAC 公开数据；整理脚本 MIT"},{"id":"ofac_trx","name":"OFAC SDN（TRON）","kind":"wallet","mode":"runtime","format":"lines","chains":["crypto_tron"],"url":"https://raw.githubusercontent.com/0xB10C/ofac-sanctioned-digital-currency-addresses/lists/sanctioned_addresses_TRX.txt","homepage":"https://github.com/0xB10C/ofac-sanctioned-digital-currency-addresses","license":"美国财政部 OFAC 公开数据；整理脚本 MIT"},{"id":"ofac_usdt","name":"OFAC SDN（USDT）","kind":"wallet","mode":"runtime","format":"lines","chains":["crypto_eth","crypto_tron"],"url":"https://raw.githubusercontent.com/0xB10C/ofac-sanctioned-digital-currency-addresses/lists/sanctioned_addresses_USDT.txt","homepage":"https://github.com/0xB10C/ofac-sanctioned-digital-currency-addresses","license":"美国财政部 OFAC 公开数据；整理脚本 MIT"},{"id":"ofac_btc","name":"OFAC SDN（BTC）","kind":"wallet","mode":"runtime","format":"lines","chains":["crypto_btc"],"url":"https://raw.githubusercontent.com/0xB10C/ofac-sanctioned-digital-currency-addresses/lists/sanctioned_addresses_XBT.txt","homepage":"https://github.com/0xB10C/ofac-sanctioned-digital-currency-addresses","license":"美国财政部 OFAC 公开数据；整理脚本 MIT"}]}};

diff --git a/site/index.html b/site/index.html
@@ -3,12 +3,12 @@
 <head>
 <meta charset="utf-8">
 <meta name="viewport" content="width=device-width,initial-scale=1">
-<title>DeepSuck · 开源 AI 反诈“拖住”机器人（非官方项目，与 DeepSeek 无关）</title>
-<meta name="description" content="DeepSuck：开源的 AI 反诈机器人，用会聊天的“受害人”人设拖住骗子、提取诈骗情报（脱敏）、用于预防与预警。非官方项目，与 DeepSeek 无关。">
+<title>DeepSuck · 开源 AI 反诈“拖住”机器人</title>
+<meta name="description" content="DeepSuck：开源的 AI 反诈机器人，用会聊天的“受害人”人设拖住骗子、提取诈骗情报（脱敏）、用于预防与预警。">
 <meta property="og:type" content="website">
 <meta property="og:site_name" content="DeepSuck">
 <meta property="og:title" content="DeepSuck · 让骗子把时间浪费在 AI 身上">
-<meta property="og:description" content="开源 AI 反诈“拖住”机器人：糊涂阿姨、耳背大爷陪骗子周旋，提取脱敏情报，公开诈骗情报库。非官方项目，与 DeepSeek 无关。">
+<meta property="og:description" content="开源 AI 反诈“拖住”机器人：糊涂阿姨、耳背大爷陪骗子周旋，提取脱敏情报，公开诈骗情报库。">
 <meta property="og:image" content="https://deepsuck.si/assets/og.png">
 <meta property="og:image:width" content="1200">
 <meta property="og:image:height" content="630">
@@ -16,7 +16,7 @@
 <meta property="og:locale" content="zh_CN">
 <meta name="twitter:card" content="summary_large_image">
 <meta name="twitter:title" content="DeepSuck · 让骗子把时间浪费在 AI 身上">
-<meta name="twitter:description" content="开源 AI 反诈“拖住”机器人 + 公开诈骗情报库。非官方项目，与 DeepSeek 无关。">
+<meta name="twitter:description" content="开源 AI 反诈“拖住”机器人 + 公开诈骗情报库。">
 <meta name="twitter:image" content="https://deepsuck.si/assets/og.png">
 <meta name="theme-color" content="#120f0c">
 <link rel="canonical" href="https://deepsuck.si/">
@@ -27,7 +27,6 @@
 <header class="topbar">
   <div class="wrap">
     <a class="brand" href="./"><img src="assets/logo.svg" alt="">DeepSuck</a>
-    <span class="unofficial" data-i18n="badge">非官方项目，与 DeepSeek 无关</span>
     <nav class="nav">
       <a class="hide-m" href="#how" data-i18n="nav.how">原理</a>
       <a class="hide-m" href="#scenarios" data-i18n="nav.sc">场景</a>
@@ -178,14 +177,13 @@ tests/             # node --test</pre>
 
 <section>
   <div class="wrap">
-    <div class="disclaimer" data-i18n="disc"><b>免责声明：</b>DeepSuck 是独立的开源社区项目，<b>非官方项目，与 DeepSeek（深度求索）及其关联公司无任何关联</b>，未获其授权或背书，名称仅为谐音玩梗。本项目按“现状”提供，仅用于防诈研究与公众教育；演示中的所有账号、电话、地址与网址均为虚构测试数据。使用者须自行遵守所在地法律法规，因不当使用产生的后果由使用者自行承担。</div>
+    <div class="disclaimer" data-i18n="disc"><b>免责声明：</b>DeepSuck 是独立的开源社区项目。本项目按“现状”提供，仅用于防诈研究与公众教育；演示中的所有账号、电话、地址与网址均为虚构测试数据。使用者须自行遵守所在地法律法规，因不当使用产生的后果由使用者自行承担。</div>
   </div>
 </section>
 </main>
 
 <footer>
   <div class="wrap">
-    <span class="unofficial" data-i18n="badge">非官方项目，与 DeepSeek 无关</span>
     <span>DeepSuck · deepsuck.si</span>
     <span>Apache-2.0</span>
     <span data-i18n="foot.110">遇到诈骗请拨打 110 / 96110</span>

diff --git a/site/intel.html b/site/intel.html
@@ -3,12 +3,12 @@
 <head>
 <meta charset="utf-8">
 <meta name="viewport" content="width=device-width,initial-scale=1">
-<title>公开诈骗情报库 · DeepSuck（非官方项目，与 DeepSeek 无关）</title>
-<meta name="description" content="DeepSuck 公开诈骗情报库：诈骗电话、钱包地址、网址/APP 与话术完整公开，银行卡与姓名部分打码。支持检索、筛选与 JSON/CSV 下载。非官方项目，与 DeepSeek 无关。">
+<title>公开诈骗情报库 · DeepSuck</title>
+<meta name="description" content="DeepSuck 公开诈骗情报库：诈骗电话、钱包地址、网址/APP 与话术完整公开，银行卡与姓名部分打码。支持检索、筛选与 JSON/CSV 下载。">
 <meta property="og:type" content="website">
 <meta property="og:site_name" content="DeepSuck">
 <meta property="og:title" content="DeepSuck 公开诈骗情报库">
-<meta property="og:description" content="诈骗电话、钱包地址、网址/APP 与话术完整公开，银行卡与姓名部分打码。可检索、可下载。非官方项目，与 DeepSeek 无关。">
+<meta property="og:description" content="诈骗电话、钱包地址、网址/APP 与话术完整公开，银行卡与姓名部分打码。可检索、可下载。">
 <meta property="og:image" content="https://deepsuck.si/assets/og.png">
 <meta property="og:url" content="https://deepsuck.si/intel.html">
 <meta name="twitter:card" content="summary_large_image">
@@ -19,7 +19,6 @@
 <header class="topbar">
   <div class="wrap">
     <a class="brand" href="./"><img src="assets/logo.svg" alt="">DeepSuck</a>
-    <span class="unofficial">非官方项目，与 DeepSeek 无关</span>
     <nav class="nav">
       <a class="hide-m" href="#policy">发布策略</a>
       <a class="hide-m" href="#report">如何举报</a>
@@ -120,7 +119,6 @@
 
 <footer>
   <div class="wrap">
-    <span class="unofficial">非官方项目，与 DeepSeek 无关</span>
     <span>DeepSuck · Apache-2.0 · 仅用于防诈研究与教育</span>
     <span>遇到诈骗请拨打 110 / 96110</span>
     <a href="./">返回首页</a>

diff --git a/site/assets/js/i18n.js b/site/assets/js/i18n.js
@@ -1,8 +1,7 @@
-/*! DeepSuck — i18n.js：首页中英切换（中文为默认与权威版本）。Apache-2.0 · 非官方项目，与 DeepSeek 无关 */
+/*! DeepSuck — i18n.js：首页中英切换（中文为默认与权威版本）。Apache-2.0 */
 (function () {
   'use strict';
   var EN = {
-    'badge': 'Unofficial project · not affiliated with DeepSeek',
     'nav.how': 'How', 'nav.sc': 'Scenarios', 'nav.ethics': 'Ethics', 'nav.oss': 'Open source', 'nav.demo': 'Try the sandbox', 'nav.intel': 'Intel library',
     'hero.kicker': 'Open source · defensive research · Chinese scenarios first',
     'hero.title': 'Let scammers waste their time<br><em>on an AI instead</em>',
@@ -36,7 +35,7 @@
     'oss.title': 'Build it together', 'oss.sub': 'Apache-2.0. Plain HTML/CSS/JS with clear modules.',
     'o1': 'Add scenarios and (masked) real-world script samples', 'o2': 'Design more exhausting personas and stalling tactics',
     'o3': 'Improve extractor regexes and tactic rules, add tests', 'o4': 'Roadmap: LLM personas, voice calls (ASR/TTS), intel-sharing API',
-    'disc': '<b>Disclaimer:</b> DeepSuck is an independent community project, <b>unofficial and not affiliated with DeepSeek</b> or its affiliates, nor endorsed by them; the name is a pun. Provided "as is" for anti-fraud research and education; all accounts, phones, addresses and URLs in the demo are fictitious test data. Users must comply with local laws.',
+    'disc': '<b>Disclaimer:</b> DeepSuck is an independent open-source community project. Provided "as is" for anti-fraud research and education; all accounts, phones, addresses and URLs in the demo are fictitious test data. Users must comply with local laws.',
     'foot.soon': '(not live yet)', 'foot.110': 'Scam? Call 110 / 96110'
   };
   var nodes = document.querySelectorAll('[data-i18n]');

diff --git a/voice/static/index.html b/voice/static/index.html
@@ -3,7 +3,7 @@
 <head>
 <meta charset="utf-8">
 <meta name="viewport" content="width=device-width,initial-scale=1">
-<title>语音演示 · DeepSuck（非官方项目，与 DeepSeek 无关）</title>
+<title>语音演示 · DeepSuck</title>
 <link rel="icon" href="/static/logo.svg">
 <style>
 :root{--bg:#120f0c;--card:#1d1813;--card2:#241e18;--line:#352b22;--text:#f3e9dc;--muted:#b4a491;--dim:#857563;
@@ -51,7 +51,7 @@ button:disabled{opacity:.5;cursor:not-allowed}
 <body>
 <header>
   <img src="/static/logo.svg" alt="">
-  <b>DeepSuck 语音演示</b><span class="tag">非官方项目，与 DeepSeek 无关</span>
+  <b>DeepSuck 语音演示</b>
   <span class="status"><span id="dot" class="dot"></span><span id="st">加载中…</span></span>
 </header>
 <main>
@@ -84,7 +84,7 @@ button:disabled{opacity:.5;cursor:not-allowed}
     <div id="intent" class="empty">—</div>
   </aside>
 </main>
-<p class="note">语音链路：浏览器麦克风 → SmallWebRTC → Paraformer 实时识别 → 情报抽取/话术识别 → qwen-plus → 输出守卫 → CosyVoice。需要 DASHSCOPE_API_KEY。音频不落盘；看板只显示脱敏值。仅供防诈研究与教育，请勿用于拨打任何真实电话。DeepSuck 为非官方项目，与 DeepSeek 无关。</p>
+<p class="note">语音链路：浏览器麦克风 → SmallWebRTC → Paraformer 实时识别 → 情报抽取/话术识别 → qwen-plus → 输出守卫 → CosyVoice。需要 DASHSCOPE_API_KEY。音频不落盘；看板只显示脱敏值。仅供防诈研究与教育，请勿用于拨打任何真实电话。</p>
 <script src="/static/voice.js"></script>
 </body>
 </html>

diff --git a/site/demo.html b/site/demo.html
@@ -3,7 +3,7 @@
 <head>
 <meta charset="utf-8">
 <meta name="viewport" content="width=device-width,initial-scale=1">
-<title>沙盒演示 · DeepSuck（非官方项目，与 DeepSeek 无关）</title>
+<title>沙盒演示 · DeepSuck</title>
 <link rel="icon" href="favicon.svg" type="image/svg+xml">
 <link rel="stylesheet" href="assets/css/style.css">
 </head>
@@ -11,7 +11,6 @@
 <header class="topbar">
   <div class="wrap">
     <a class="brand" href="./"><img src="assets/logo.svg" alt="">DeepSuck</a>
-    <span class="unofficial">非官方项目，与 DeepSeek 无关</span>
     <nav class="nav">
       <a class="hide-m" id="liveVoiceLink" href="#" hidden>🎙 语音演示</a>
       <a class="hide-m" href="intel.html">情报库</a>
@@ -124,7 +123,7 @@
           <div class="transcript" id="dashTranscript"></div>
         </div>
       </div>
-      <p class="note" style="margin-top:16px">本看板由沙盒演示生成，仅用于防诈研究与教育。真实遇到诈骗请拨打 110 或 96110。DeepSuck 为非官方项目，与 DeepSeek 无关。</p>
+      <p class="note" style="margin-top:16px">本看板由沙盒演示生成，仅用于防诈研究与教育。真实遇到诈骗请拨打 110 或 96110。</p>
     </div>
   </div>
 </div>
@@ -155,7 +154,6 @@
 
 <footer>
   <div class="wrap">
-    <span class="unofficial">非官方项目，与 DeepSeek 无关</span>
     <span>DeepSuck · Apache-2.0 · 仅用于防诈研究与教育</span>
     <span>遇到诈骗请拨打 110 / 96110</span>
     <a href="./">返回首页</a>

diff --git a/server/index.js b/server/index.js
@@ -6,7 +6,7 @@
  *  - GET  /api/health：返回是否已配置大模型、限流与当日预算状态（不返回 Key）
  *  - 公开部署（deploy/）时的费用护栏见 server/guard.js：每 IP/全局限流、每局最大轮数、每日预算上限、CORS 白名单
  * 用法：cp .env.example .env && 填写 DASHSCOPE_API_KEY && npm start
- * Apache-2.0 · 非官方项目，与 DeepSeek 无关
+ * Apache-2.0
  */
 'use strict';
 var http = require('http');
@@ -183,7 +183,7 @@ var server = http.createServer(function (req, res) {
 
 if (require.main === module) {
   server.listen(CFG.port, CFG.host, function () {
-    console.log('DeepSuck（非官方项目，与 DeepSeek 无关）已启动: http://' + CFG.host + ':' + CFG.port + '/');
+    console.log('DeepSuck 已启动: http://' + CFG.host + ':' + CFG.port + '/');
     console.log('护栏：每 IP ' + CFG.rateLimit + '/分钟、' + CFG.ratePerDay + '/天；全站 ' + CFG.globalPerMin + '/分钟；每局 ' + CFG.maxTurns + ' 轮；每日预算 ' + (CFG.budgetCny > 0 ? CFG.budgetCny + ' 元' : '不限') + (CFG.origins.length ? '；CORS ' + CFG.origins.join(',') : ''));
     console.log(CFG.apiKey ? '大模型引擎：已配置 ' + CFG.model + ' @ ' + CFG.baseUrl : '大模型引擎：未配置（仅规则引擎）。如需启用，请在 .env 中填写 DASHSCOPE_API_KEY');
   });

diff --git a/scripts/build-core.js b/scripts/build-core.js
@@ -2,7 +2,7 @@
 /*!
  * 把 site/assets/core/*.json（规则与台词的单一事实来源）打包成浏览器可同步加载的 site/assets/js/core-data.js。
  * 用法：npm run build:core   （修改任何 core/*.json 后运行；npm test 会检查产物是否最新）
- * Apache-2.0 · 非官方项目，与 DeepSeek 无关
+ * Apache-2.0
  */
 'use strict';
 const fs = require('fs');
@@ -14,7 +14,7 @@ const NAMES = ['extractors', 'tactics', 'scenarios', 'personas', 'blocklists'];
 function render() {
   const data = {};
   for (const n of NAMES) data[n] = JSON.parse(fs.readFileSync(path.join(CORE, n + '.json'), 'utf8'));
-  return '/*! DeepSuck — core-data.js：由 scripts/build-core.js 从 site/assets/core/*.json 自动生成，请勿手改。Apache-2.0 · 非官方项目，与 DeepSeek 无关 */\n' +
+  return '/*! DeepSuck — core-data.js：由 scripts/build-core.js 从 site/assets/core/*.json 自动生成，请勿手改。Apache-2.0 */\n' +
     '(function (root) {\n  root.DeepSuck = root.DeepSuck || {};\n  root.DeepSuck.coreData = ' + JSON.stringify(data) + ';\n})(typeof self !== \'undefined\' ? self : this);\n';
 }
 

diff --git a/scripts/fetch-blocklists.js b/scripts/fetch-blocklists.js
@@ -5,7 +5,7 @@
  *   site/data/blocklist/d/00..ff.txt  每行 "domain<TAB>bits"（bits 第 i 位 = meta.sources[i]）
  * 产物不入库（.gitignore），由 .github/workflows/pages.yml 在部署前运行；本地可运行 npm run blocklists。
  * 用法：node scripts/fetch-blocklists.js [--out site/data/blocklist] [--from-dir 本地已下载的 txt 目录]
- * Apache-2.0 · 非官方项目，与 DeepSeek 无关
+ * Apache-2.0
  */
 'use strict';
 const fs = require('fs');
@@ -76,7 +76,7 @@ async function main() {
     hash: 'fnv1a32(domain) % shards, hex2',
     total: all.size,
     sources,
-    notice: '数据来自上述公开项目（MIT），按原许可证再分发；命中仅供参考，不能作为认定依据。非官方项目，与 DeepSeek 无关。'
+    notice: '数据来自上述公开项目（MIT），按原许可证再分发；命中仅供参考，不能作为认定依据。'
   };
   fs.writeFileSync(path.join(OUT, 'meta.json'), JSON.stringify(meta, null, 1) + '\n');
   const lic = [];

diff --git a/site/assets/js/engine.js b/site/assets/js/engine.js
@@ -2,7 +2,7 @@
  * DeepSuck — engine.js
  * 规则/模板人设引擎（默认引擎，纯浏览器运行，无需 API Key）。
  * Session 负责：接收骗子消息 → 提取情报 → 识别话术 → 选择拖延意图 → 生成人设回复 → 汇总报告。
- * Apache-2.0 · 非官方项目，与 DeepSeek 无关
+ * Apache-2.0
  */
 (function (root, factory) {
   var isNode = typeof module === 'object' && module.exports;
@@ -286,7 +286,7 @@
     var st = this.stats();
     return {
       schema: REPORT_SCHEMA,
-      generator: 'DeepSuck ' + VERSION + ' (非官方项目，与 DeepSeek 无关)',
+      generator: 'DeepSuck ' + VERSION,
       generatedAt: new Date(this.now()).toISOString(),
       disclaimer: '本报告由沙盒演示生成，所有敏感信息均已脱敏，仅用于防诈研究与教育，不得用于骚扰、报复或任何违法用途。',
       session: {

diff --git a/site/assets/js/normalize.js b/site/assets/js/normalize.js
@@ -3,7 +3,7 @@
  * 中文"去武装"写法规范化：骗子常把联系方式写成 "微 信"、"V信"、"扣扣"、"xxx点com"、"幺三九…"、"１３９"、"1 3 9 0 …" 来躲避关键词过滤。
  * 在提取情报与识别话术之前先规范化；同时维护 规范化文本 → 原文 的位置映射，确保脱敏时替换的是原文中的对应片段。
  * 规则数据见 site/assets/core/extractors.json 的 obfuscation 段。
- * Apache-2.0 · 非官方项目，与 DeepSeek 无关
+ * Apache-2.0
  */
 (function (root, factory) {
   var isNode = typeof module === 'object' && module.exports;

diff --git a/tests/server.test.js b/tests/server.test.js
@@ -13,7 +13,7 @@ test('server：health / 静态文件 / 未配置 Key 时 /api/chat 返回 503 / 
     assert.equal(h.ok, true); assert.equal(h.llmConfigured, false);
     const idx = await fetch(base + '/');
     assert.equal(idx.status, 200);
-    assert.match(await idx.text(), /非官方项目，与 DeepSeek 无关/);
+    assert.match(await idx.text(), /DeepSuck/);
     const chat = await fetch(base + '/api/chat', { method: 'POST', body: '{}' });
     assert.equal(chat.status, 503);
     const trav = await fetch(base + '/..%2f..%2fpackage.json');
